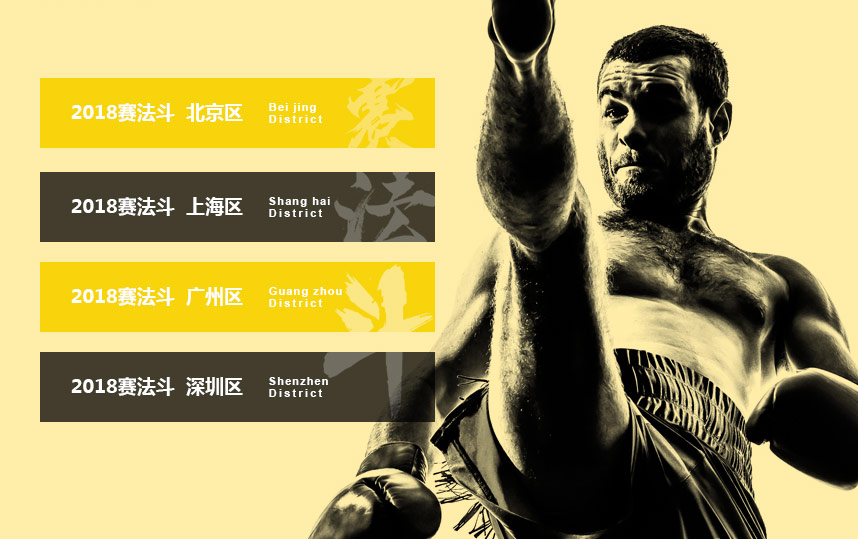
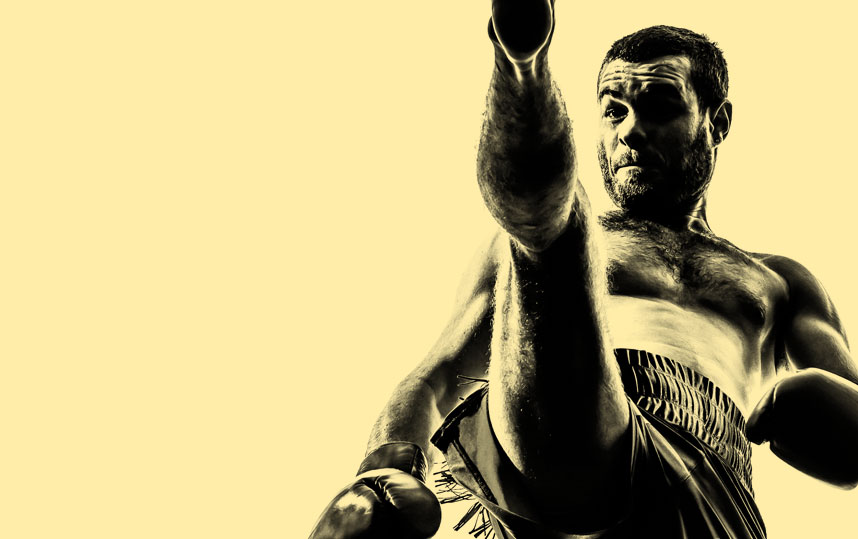
改

Changed region(s): [[0.0303, 0.1187, 0.5152, 0.6234], [0.0303, 0.6531, 0.5152, 0.8015]]

diff --git a/src/main/webapp/static/css/main.css b/src/main/webapp/static/css/main.css
@@ -34,11 +34,20 @@
 }
 
 .index1 .index1right{width: 59.6%; background: #ffeda9;}
-.index1 .index1right > img{width: 100%;}
 .index1 .index1right .index1right1{position: relative;width: 100%;height: 177px;display: flex;align-items: center;}
 .index1 .index1right .index1right1 > img{width: 100%;height: 100%;}
 .index1 .index1right .index1right1 span{position: absolute;color: #fff;font-size: 18px;right: 17%;text-align: right;}
 .index1 .index1right .index1right1 span img{margin-bottom: 10px;}
+.index1 .index1right > img{width: 100%;}
+.index1 .index1right .rightbox{width: 100%;position: relative;}
+.index1 .index1right .rightbox > img{width: 100%;}
+.index1 .index1right .rightbox ul{ position: absolute;top: 30px; width:100%;}
+.index1 .index1right .rightbox ul li{width:65%;height: 70px;margin-left: 40px;margin-top: 24px;line-height: 70px;}
+.index1 .index1right .rightbox ul li.one{ background:url(../img/titlebg.png) no-repeat; background-size: 100% 100%;}
+.index1 .index1right .rightbox ul li.two{ background:url(../img/titlebg1.png) no-repeat; background-size: 100% 100%;}
+.index1 .index1right .rightbox ul li.three{ background:url(../img/titlebg2.png) no-repeat; background-size: 100% 100%;}
+.index1 .index1right .rightbox ul li.four{ background:url(../img/titlebg3.png) no-repeat; background-size: 100% 100%;}
+.index1 .index1right .rightbox ul li a{display: block;color: #fff;font-size: 14px;padding-left: 20px;}
 
 .indexmap{width: 80%;margin:50px auto;background: #fff;}
 .indexmap .indexmap1{width: 100%;display: flex;align-items: center;}
